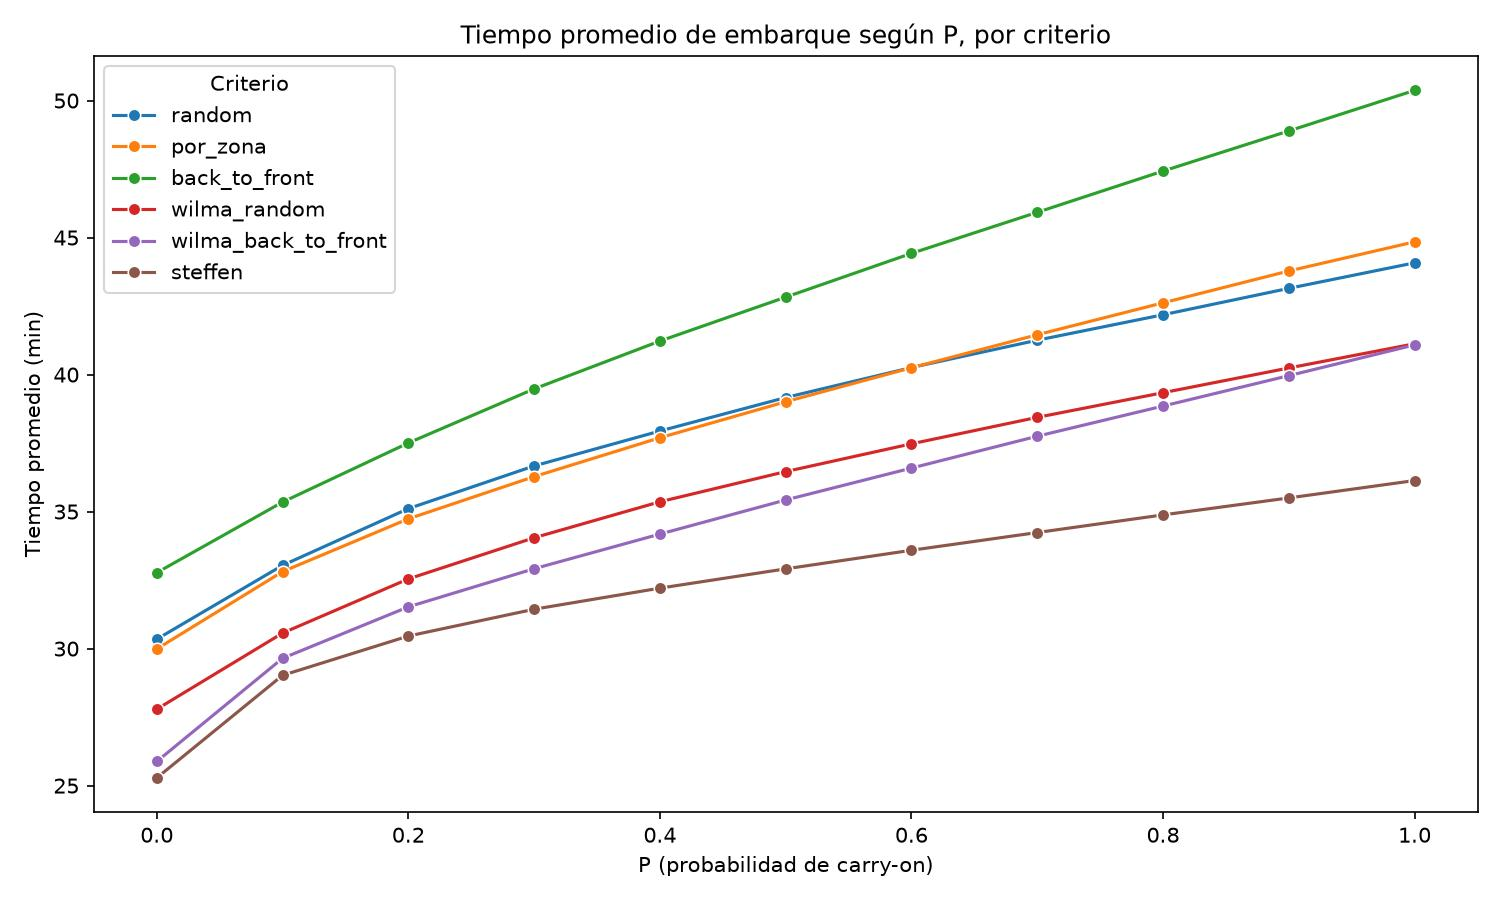
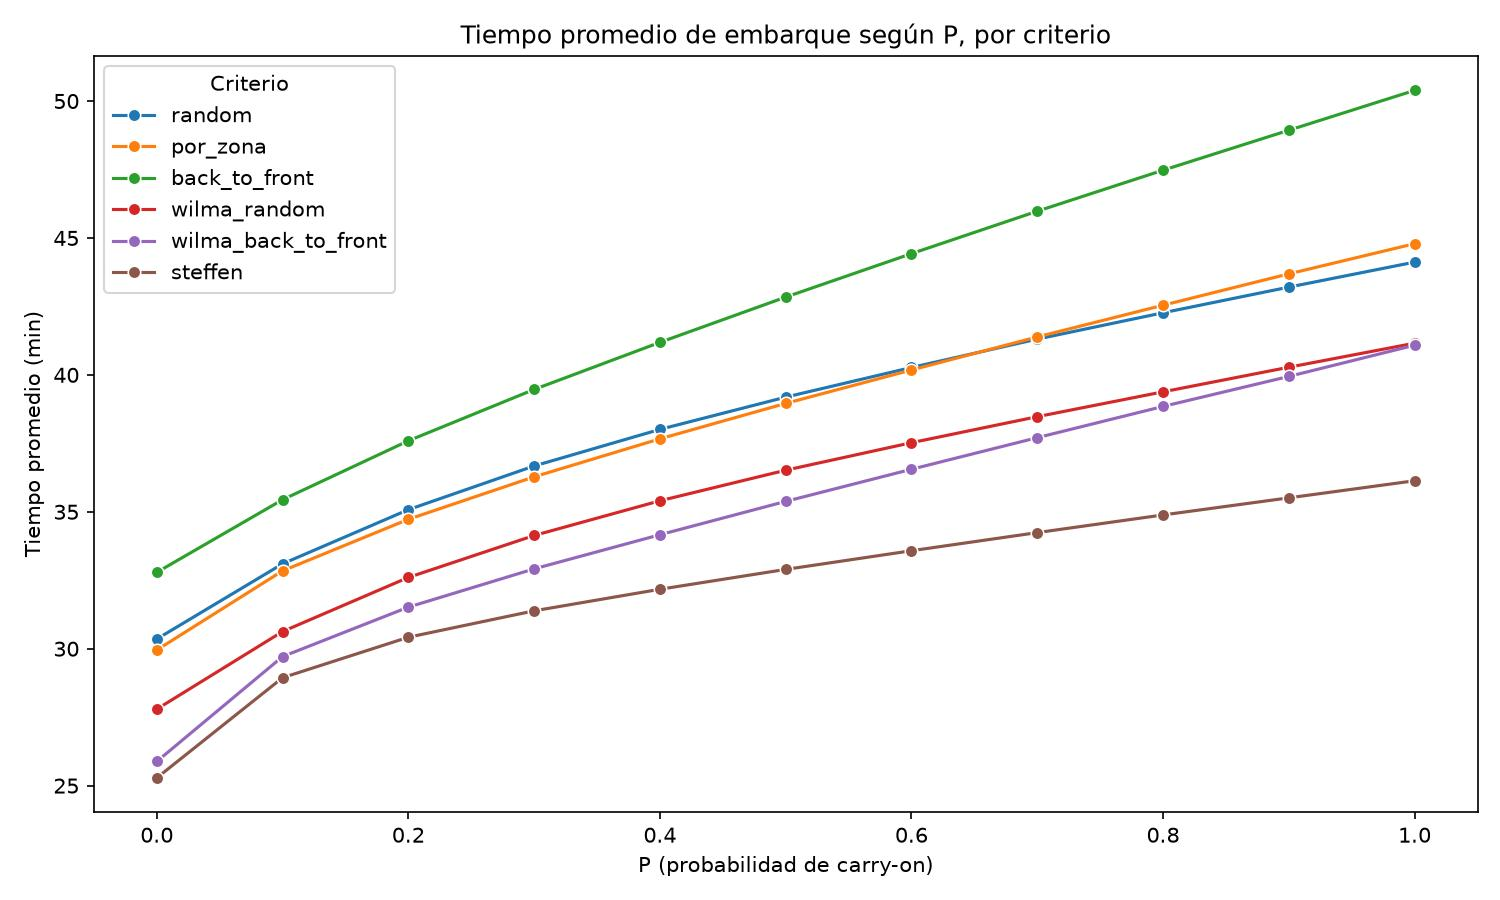
recorrer promedios_por_p

diff --git a/main.py b/main.py
@@ -4,7 +4,7 @@ import random
 FILAS = 25
 N_PASAJEROS = 100
 VISUALIZAR = True
-P_CARRY_ON = 0.75
+P_CARRY_ON = 1
 T_SENTADO = 3
 T_CARRYON = 9
 
@@ -12,14 +12,15 @@ ITERS = 1
 
 ASIENTOS_VALIDOS = [0, 1, 3, 4]
 
-CRITERIO = Criterio.back_to_front
+CRITERIO = Criterio.wilma_back_to_front
+VELOCIDAD = 10
 
 random.seed(100)  
 
 tiempos = []
 
 for i in range(ITERS):
-    res = simular(FILAS, N_PASAJEROS, ASIENTOS_VALIDOS, P_CARRY_ON, T_SENTADO, T_CARRYON, VISUALIZAR, CRITERIO)
+    res = simular(FILAS, N_PASAJEROS, ASIENTOS_VALIDOS, P_CARRY_ON, T_SENTADO, T_CARRYON, VISUALIZAR, CRITERIO, VELOCIDAD)
     tiempos.append(res["tiempo"])
 
 print("-- Tiempo promedio: " + str(round((sum(tiempos)/len(tiempos) / 60), 2)) + " minutos")

diff --git a/simular.py b/simular.py
@@ -18,7 +18,7 @@ class Criterio(Enum):
     wilma_back_to_front = auto()
     steffen = auto()
 
-def simular(FILAS, N_PASAJEROS, ASIENTOS_VALIDOS, P_CARRY_ON, T_SENTADO, T_CARRYON, VISUALIZAR, criterio):
+def simular(FILAS, N_PASAJEROS, ASIENTOS_VALIDOS, P_CARRY_ON, T_SENTADO, T_CARRYON, VISUALIZAR, criterio, VELOCIDAD=0):
     K = 5
     posiciones = []
     if criterio == Criterio.random:
@@ -73,7 +73,7 @@ def simular(FILAS, N_PASAJEROS, ASIENTOS_VALIDOS, P_CARRY_ON, T_SENTADO, T_CARRY
 
         if VISUALIZAR:
             dibujar(pantalla, avion)
-            pygame.time.delay(5) 
+            pygame.time.delay(VELOCIDAD) 
         tiempo += 1
     res = {"tiempo": tiempo}
     return res

diff --git a/simular_todos_los_criterios_cada_p.py b/simular_todos_los_criterios_cada_p.py
@@ -57,7 +57,7 @@ VISUALIZAR = False
 T_SENTADO = 3
 T_CARRYON = 9
 
-ITERS = 200
+ITERS = 1000
 
 ASIENTOS_VALIDOS = [0, 1, 3, 4]
 
